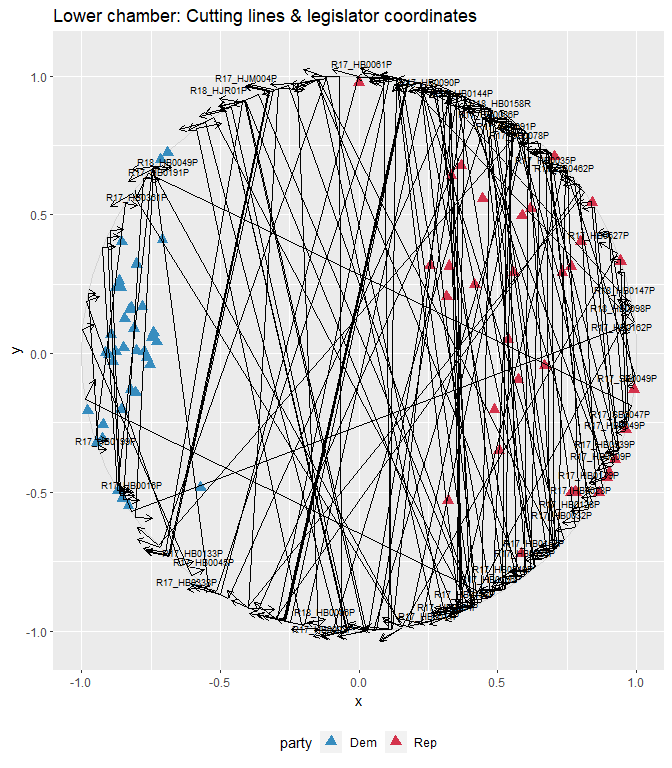
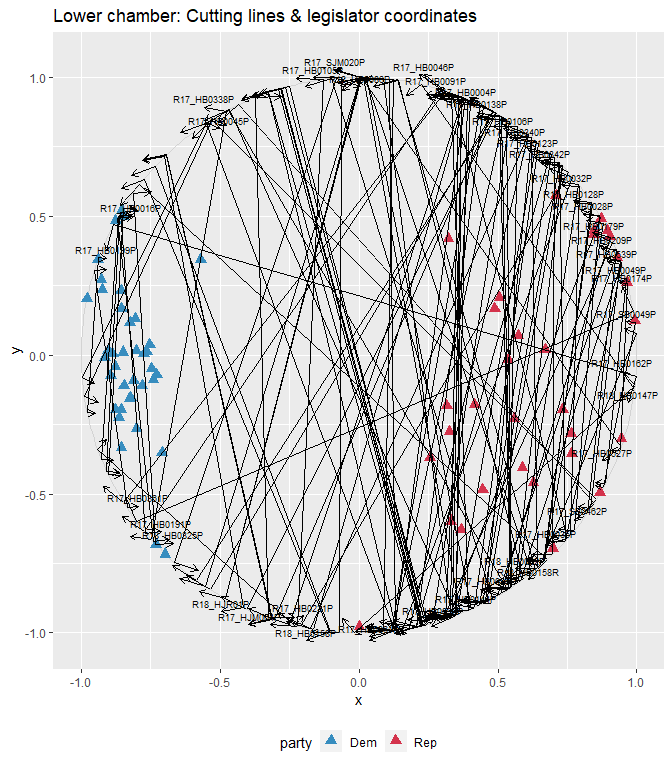
re

diff --git a/README.md b/README.md
@@ -65,7 +65,7 @@ ideal_2d <- wnominate::wnominate (roll_obj,
                                   minvotes=20,
                                   lop=0.025,
                                   trials=3, 
-                                  polarity=c(1,1),
+                                  polarity=c('TOWNSEND', 'REHM'),
                                   verbose=FALSE)
 ## 
 ## Preparing to run W-NOMINATE...
@@ -98,7 +98,7 @@ ideal_2d <- wnominate::wnominate (roll_obj,
 ## 
 ## 
 ## W-NOMINATE estimation completed successfully.
-## W-NOMINATE took 8.36 seconds to execute.
+## W-NOMINATE took 8.08 seconds to execute.
 ```
 
 ``` r
@@ -135,20 +135,20 @@ Output effectively contains four sets of points:
 
 ``` r
 head(with_cuts)
-##      Bill_Code         x_1        y_1        x_2       y_2        x_1a
-## 1: R17_HB0002P -0.03440052 -0.9994081 -0.4603719 0.8877261 -0.12875723
-## 2: R17_HB0004P  0.41486696 -0.9098821 -0.2527293 0.9675370  0.32099600
-## 3: R17_HB0005P  0.01817059 -0.9998349 -0.4126599 0.9108852 -0.07736541
-## 4: R17_HB0011P  0.34721723 -0.9377847 -0.4093959 0.9123568  0.25471015
-## 5: R17_HB0016P -0.86381566 -0.5038080 -0.9083194 0.4182773 -0.81771139
-## 6: R17_HB0017P -0.85902368 -0.5119359 -0.8954449 0.4451723 -0.81116827
-##          y_1a       x_2a      y_2a
-## 1: -1.0207067 -0.5547286 0.8664276
-## 2: -0.9432619 -0.3466002 0.9341572
-## 3: -1.0213764 -0.5081959 0.8893437
-## 4: -0.9756154 -0.5019030 0.8745262
-## 5: -0.5015828 -0.8622151 0.4205024
-## 6: -0.5101148 -0.8475895 0.4469934
+##      Bill_Code        x_1       y_1        x_2        y_2       x_1a
+## 1: R17_HB0004P  0.4787966 0.8779259 -0.3051518 -0.9523037  0.3872851
+## 2: R17_HB0011P  0.4833821 0.8754095 -0.5342280 -0.8453404  0.3973446
+## 3: R17_HB0016P -0.8637753 0.5038772 -0.9080242 -0.4189177 -0.8176356
+## 4: R17_HB0017P -0.8498559 0.5270151 -0.9031616 -0.4293008 -0.8020401
+## 5: R17_HB0028P  0.8640101 0.5034744  0.7760351 -0.6306897  0.8073019
+## 6: R17_HB0032P  0.7934022 0.6086978  0.7599459 -0.6499863  0.7304680
+##         y_1a       x_2a       y_2a
+## 1: 0.9171233 -0.3966633 -0.9131063
+## 2: 0.9262900 -0.6202655 -0.7944599
+## 3: 0.5016647 -0.8618844 -0.4211302
+## 4: 0.5243498 -0.8553458 -0.4319661
+## 5: 0.5078732  0.7193269 -0.6262909
+## 6: 0.6103706  0.6970117 -0.6483135
 ```
 
 #### Plot legislator coordinates & cutting lines with arrows indicating polarity
@@ -255,11 +255,11 @@ Cutting line angles can be extracted from a `nomObj` object using `wnomadds::wnm
 ``` r
 angles <- wnomadds::wnm_get_angles(ideal_2d)
 head(angles)
-##     Bill_Code     angle
-## 1 R17_HB0002P 102.71986
-## 2 R17_HB0004P 109.57501
-## 3 R17_HB0005P 102.70660
-## 4 R17_HB0011P 112.24205
-## 5 R17_HB0016P  92.76319
-## 6 R17_HB0017P  92.17925
+##     Bill_Code    angle
+## 1 R17_HB0004P 66.81293
+## 2 R17_HB0011P 59.40095
+## 3 R17_HB0016P 87.25472
+## 4 R17_HB0017P 86.80960
+## 5 R17_HB0028P 85.56456
+## 6 R17_HB0032P 88.47742
 ```
